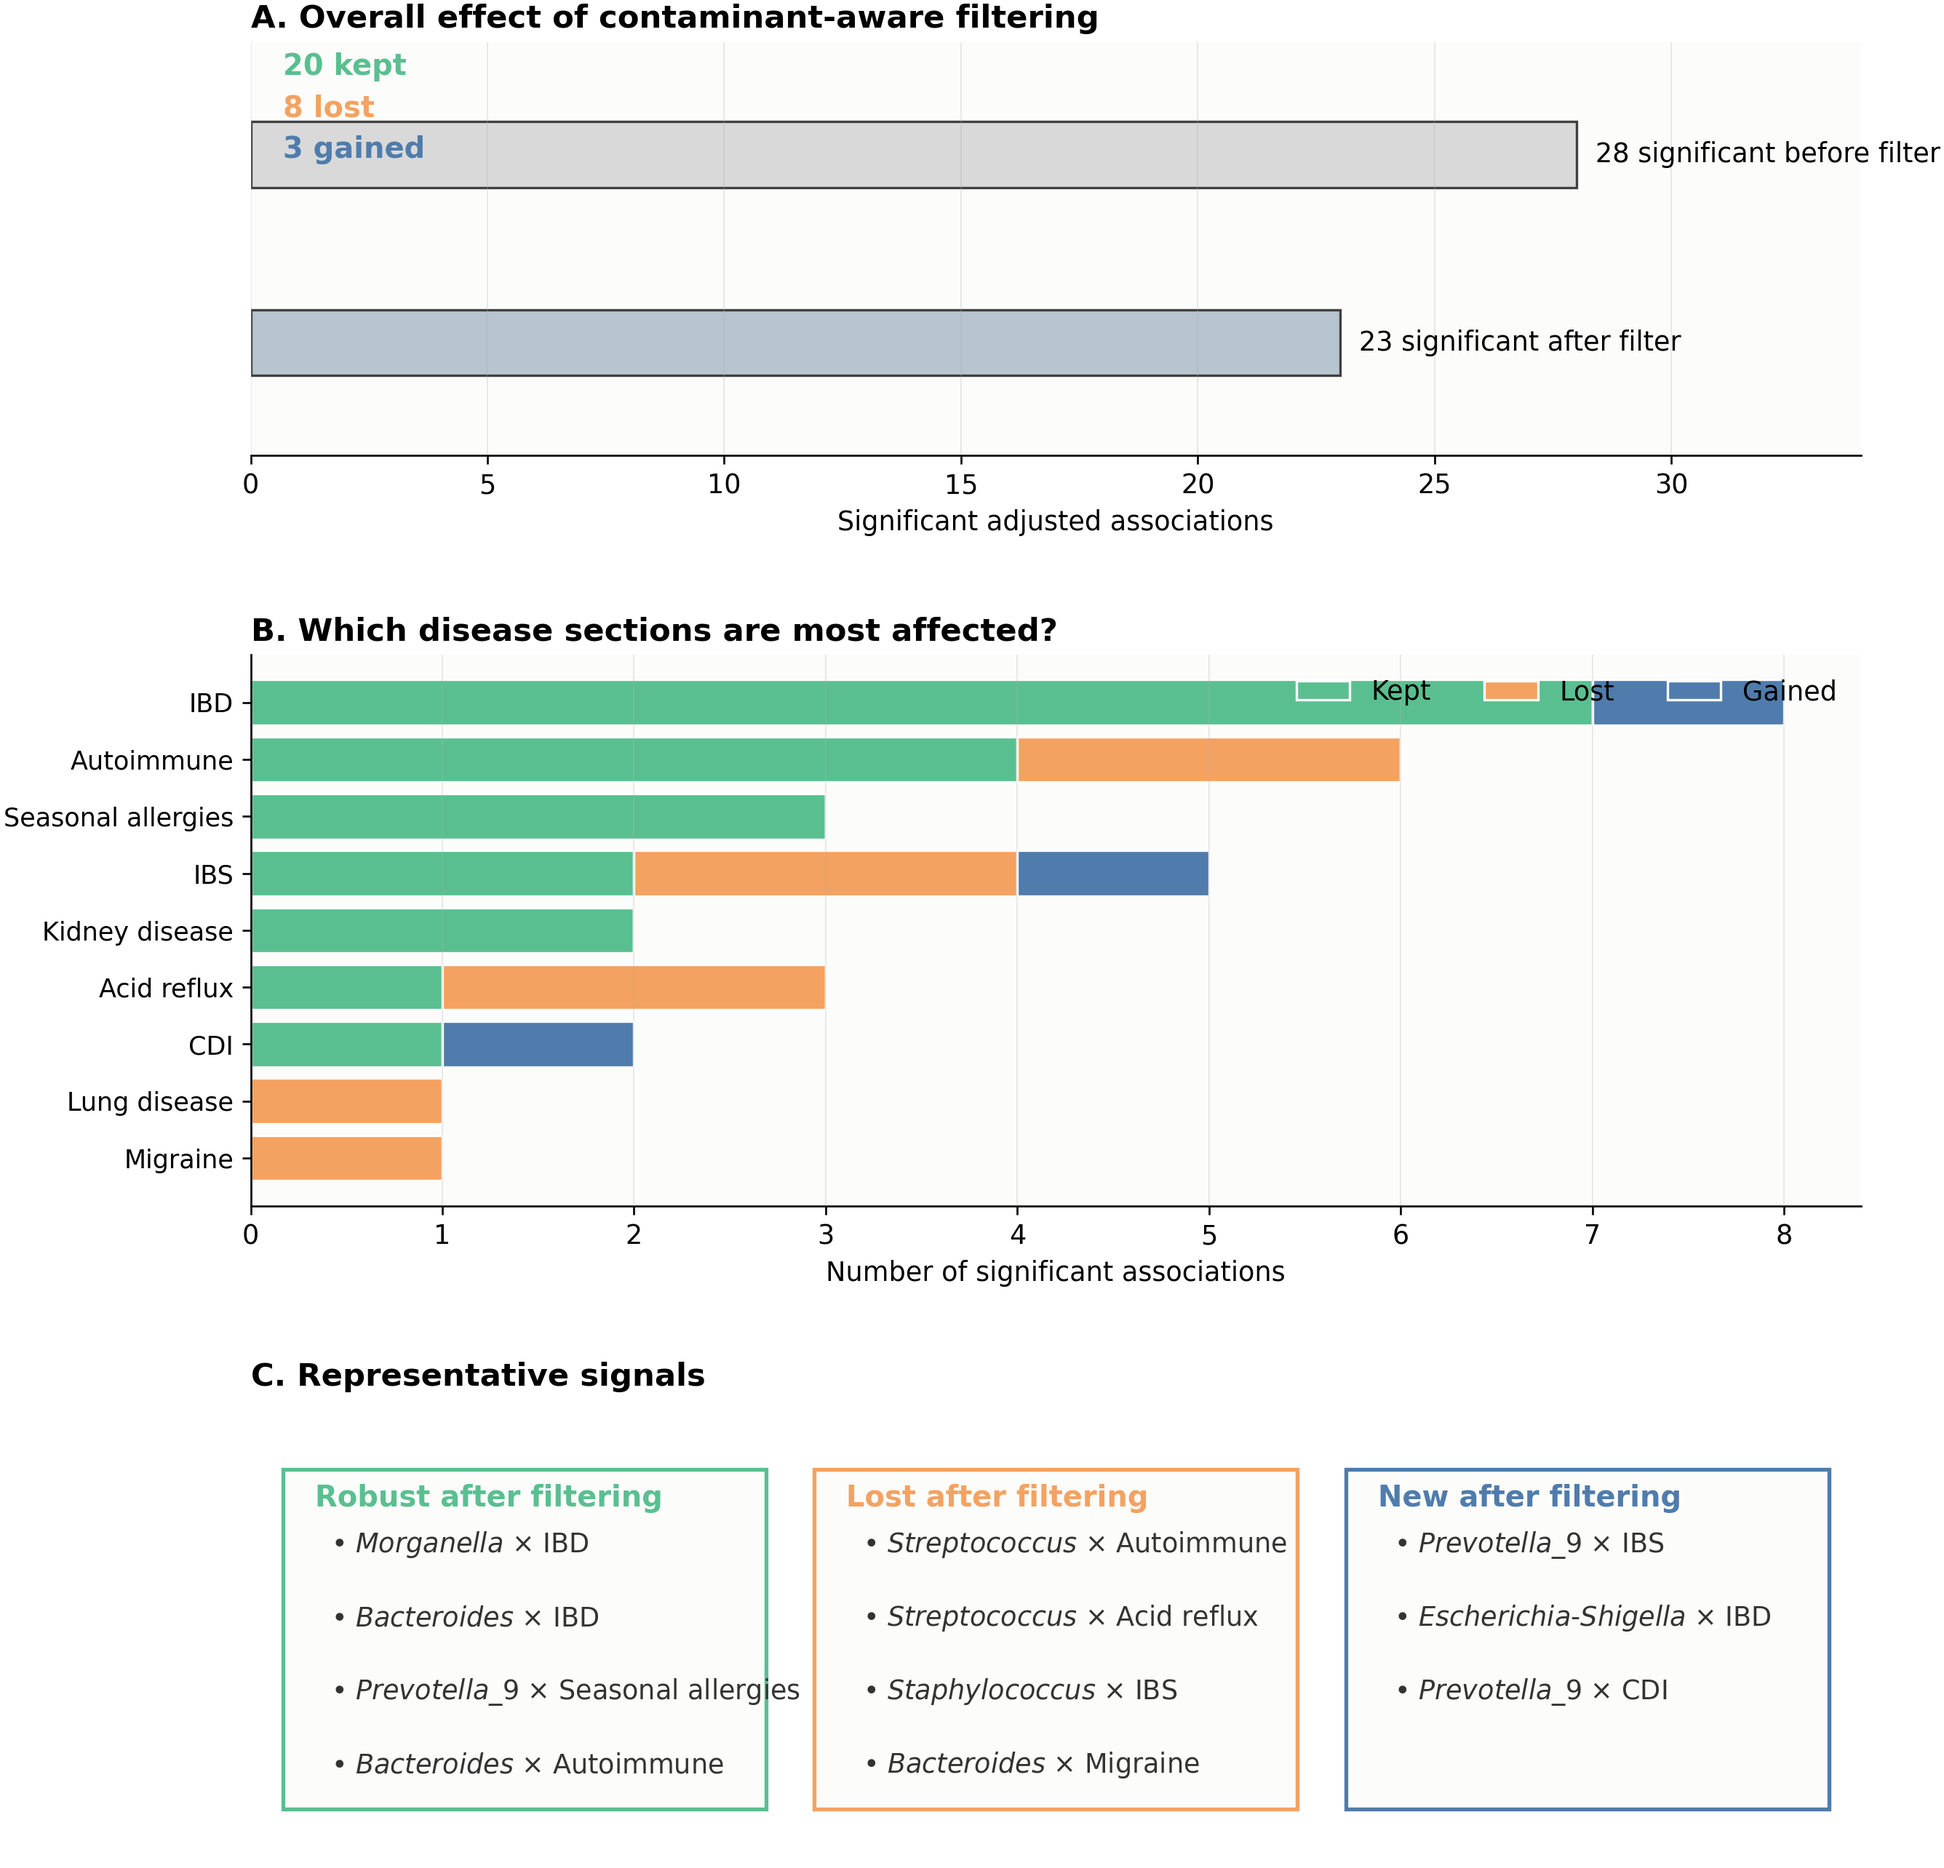
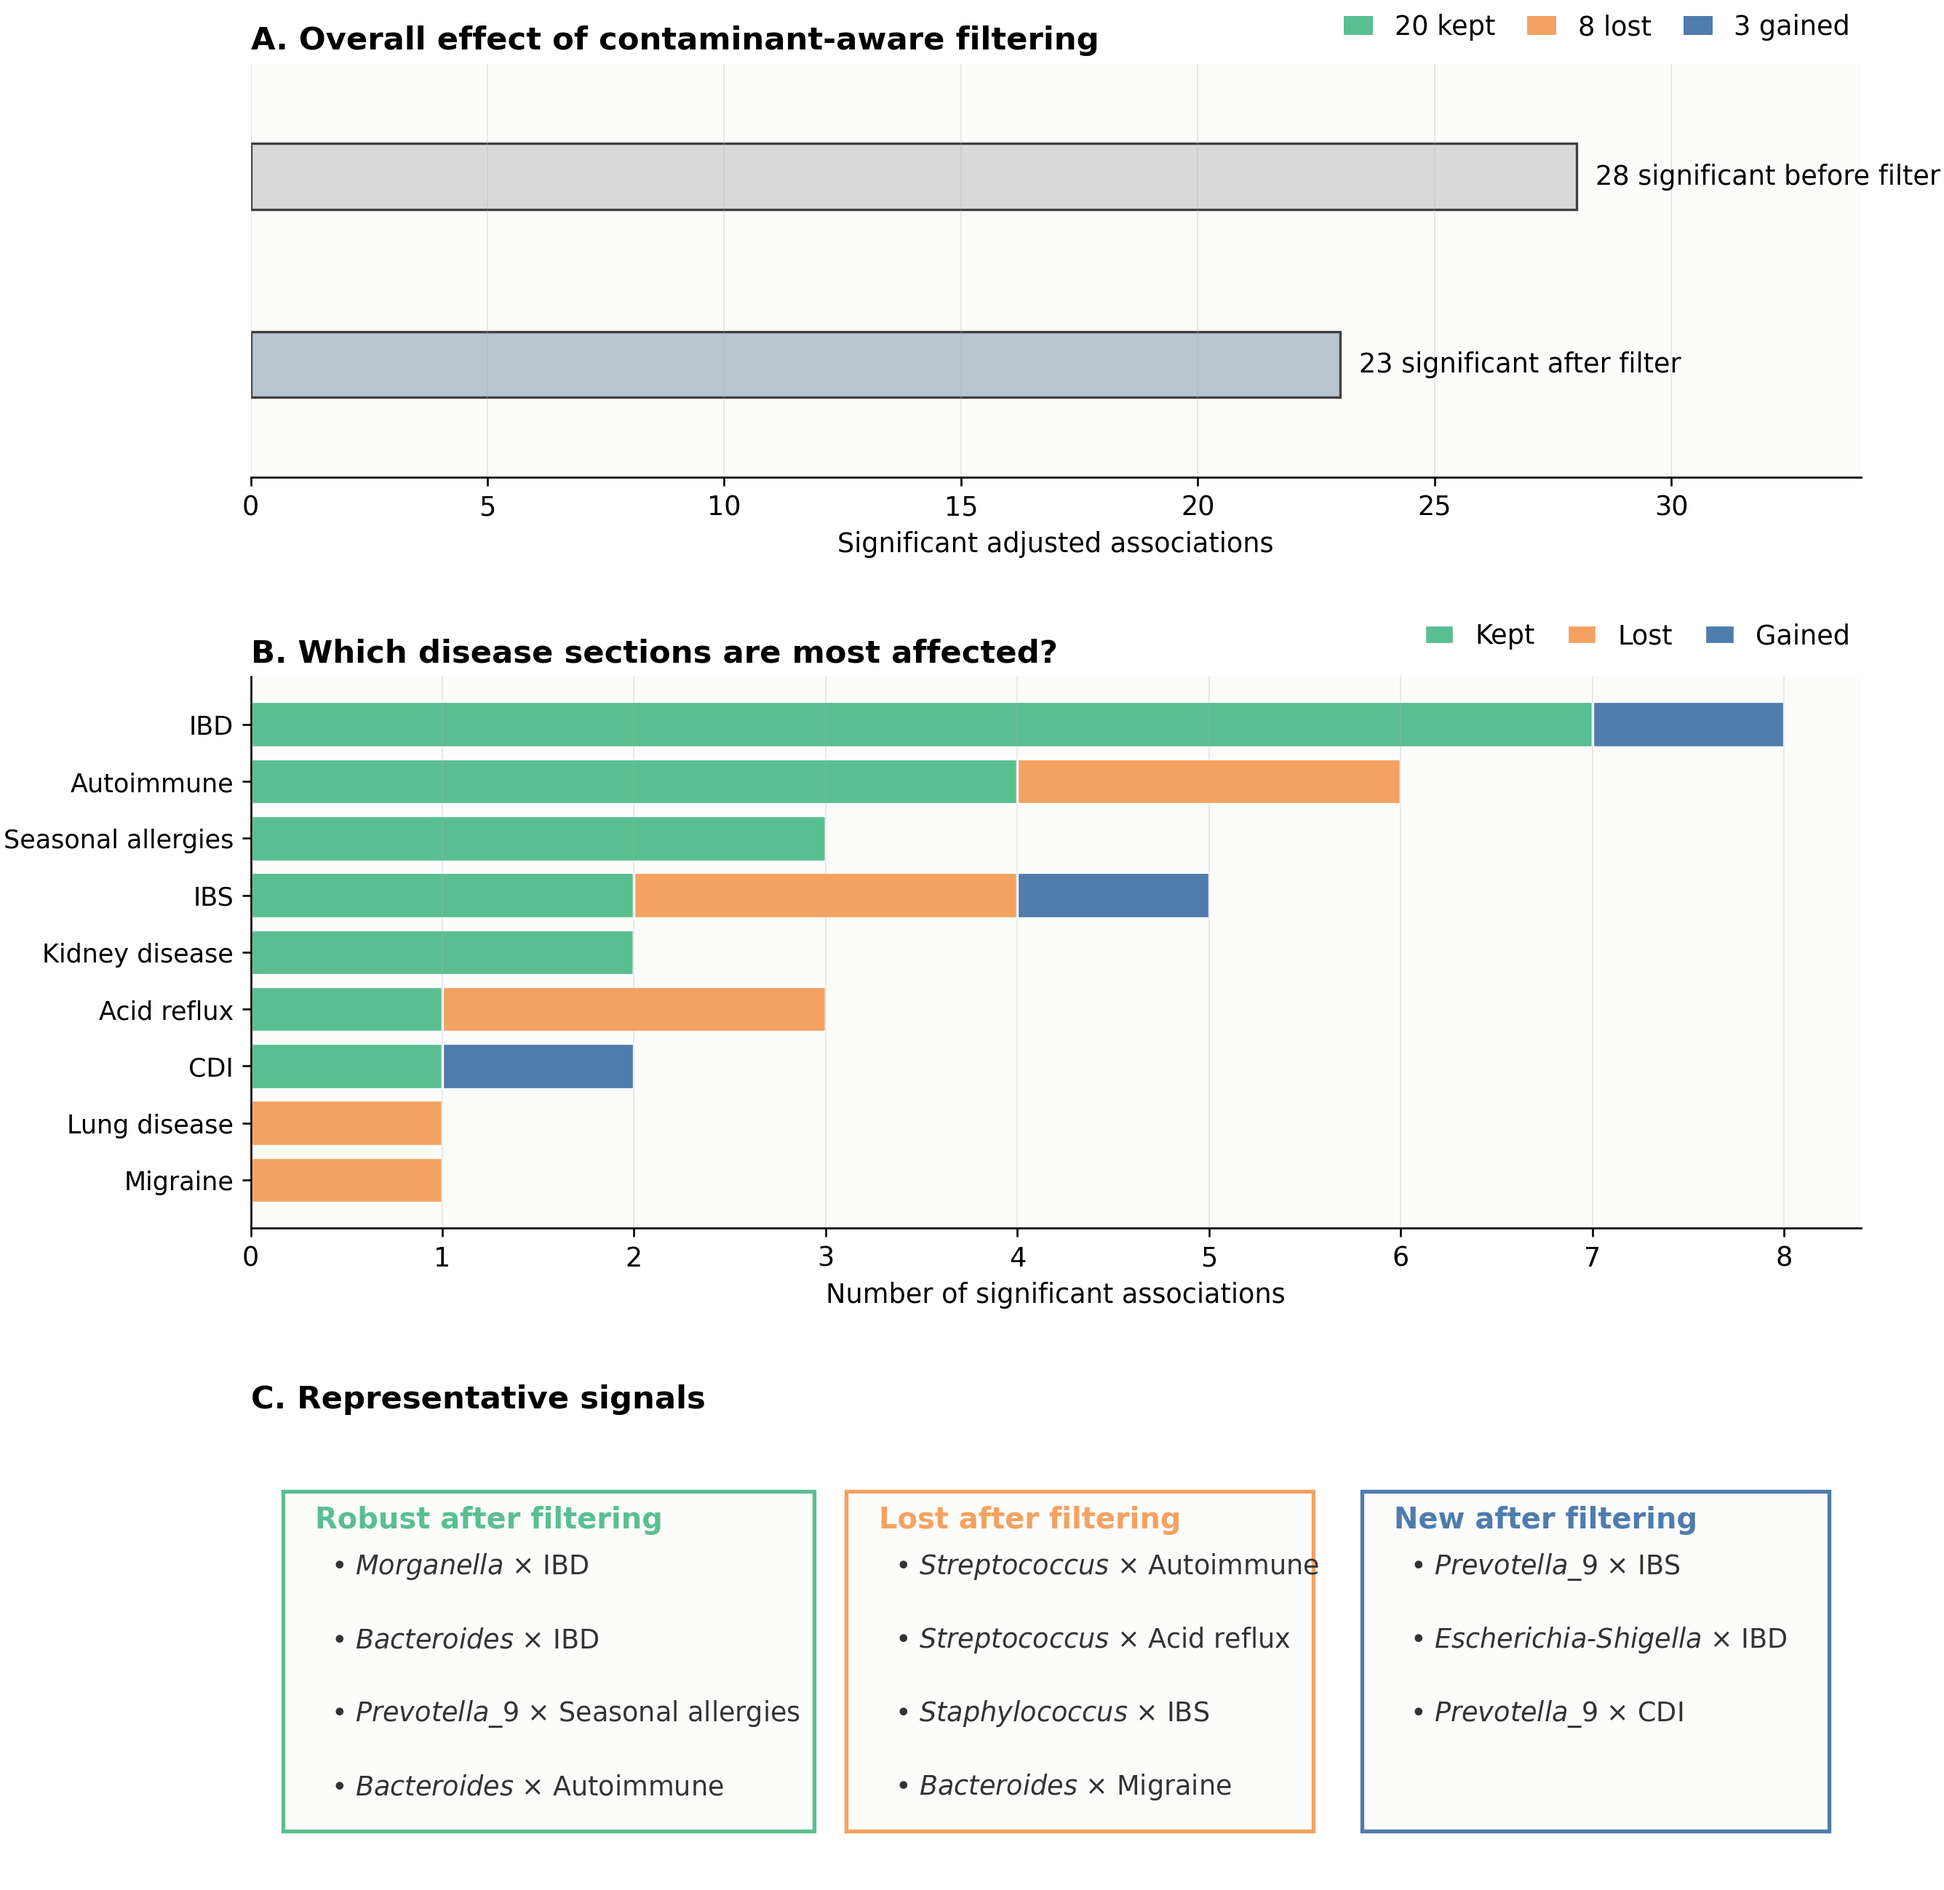
Refine gut DCST Figure 4 layout

diff --git a/papers/gut-dcst/scripts/build_contamination_robustness_figure.py b/papers/gut-dcst/scripts/build_contamination_robustness_figure.py
@@ -5,6 +5,7 @@ from pathlib import Path
 import matplotlib.pyplot as plt
 import numpy as np
 import pandas as pd
+from matplotlib.patches import Patch
 
 from paper_paths import DCST_ANALYSIS_DIR, FIGURES_DIR
 from taxon_formatting import italicize_taxa_mpl
@@ -72,9 +73,6 @@ def build_figure(df: pd.DataFrame) -> None:
     ax1.barh([0], [clean_sig], color="#b8c4ce", edgecolor="#404040", height=0.35)
     ax1.text(full_sig + 0.4, 1, f"{full_sig} significant before filter", va="center", ha="left", fontsize=11)
     ax1.text(clean_sig + 0.4, 0, f"{clean_sig} significant after filter", va="center", ha="left", fontsize=11)
-    ax1.text(0.02, 0.92, f"{counts['kept']} kept", transform=ax1.transAxes, color=colors["kept"], fontsize=12, fontweight="bold")
-    ax1.text(0.02, 0.82, f"{counts['lost']} lost", transform=ax1.transAxes, color=colors["lost"], fontsize=12, fontweight="bold")
-    ax1.text(0.02, 0.72, f"{counts['gained']} gained", transform=ax1.transAxes, color=colors["gained"], fontsize=12, fontweight="bold")
     ax1.set_xlim(0, max(full_sig, clean_sig) + 6)
     ax1.set_ylim(-0.6, 1.6)
     ax1.set_yticks([])
@@ -83,6 +81,20 @@ def build_figure(df: pd.DataFrame) -> None:
     ax1.spines["top"].set_visible(False)
     ax1.spines["right"].set_visible(False)
     ax1.spines["left"].set_visible(False)
+    ax1.legend(
+        handles=[
+            Patch(facecolor=colors["kept"], edgecolor="none", label=f"{counts['kept']} kept"),
+            Patch(facecolor=colors["lost"], edgecolor="none", label=f"{counts['lost']} lost"),
+            Patch(facecolor=colors["gained"], edgecolor="none", label=f"{counts['gained']} gained"),
+        ],
+        frameon=False,
+        ncol=3,
+        loc="lower right",
+        bbox_to_anchor=(1.0, 1.03),
+        borderaxespad=0.0,
+        handlelength=1.1,
+        columnspacing=1.2,
+    )
 
     cond = (
         df.groupby(["condition_pretty", "status"])
@@ -106,7 +118,15 @@ def build_figure(df: pd.DataFrame) -> None:
     ax2.grid(axis="x", alpha=0.25, linewidth=0.6)
     ax2.spines["top"].set_visible(False)
     ax2.spines["right"].set_visible(False)
-    ax2.legend(frameon=False, ncol=3, loc="upper right")
+    ax2.legend(
+        frameon=False,
+        ncol=3,
+        loc="lower right",
+        bbox_to_anchor=(1.0, 1.03),
+        borderaxespad=0.0,
+        handlelength=1.1,
+        columnspacing=1.2,
+    )
 
     ax3.axis("off")
     ax3.set_title("C. Representative signals", loc="left", fontweight="bold", pad=8)
@@ -130,9 +150,9 @@ def build_figure(df: pd.DataFrame) -> None:
         ],
     }
     box_specs = [
-        (0.02, 0.12, 0.30, 0.74, "Robust after filtering", colors["kept"]),
-        (0.35, 0.12, 0.30, 0.74, "Lost after filtering", colors["lost"]),
-        (0.68, 0.12, 0.30, 0.74, "New after filtering", colors["gained"]),
+        (0.02, 0.12, 0.33, 0.74, "Robust after filtering", colors["kept"]),
+        (0.37, 0.12, 0.29, 0.74, "Lost after filtering", colors["lost"]),
+        (0.69, 0.12, 0.29, 0.74, "New after filtering", colors["gained"]),
     ]
     for x0, y0, w, h, title, color in box_specs:
         rect = plt.Rectangle((x0, y0), w, h, transform=ax3.transAxes, facecolor="#fcfcfb", edgecolor=color, linewidth=1.6)
